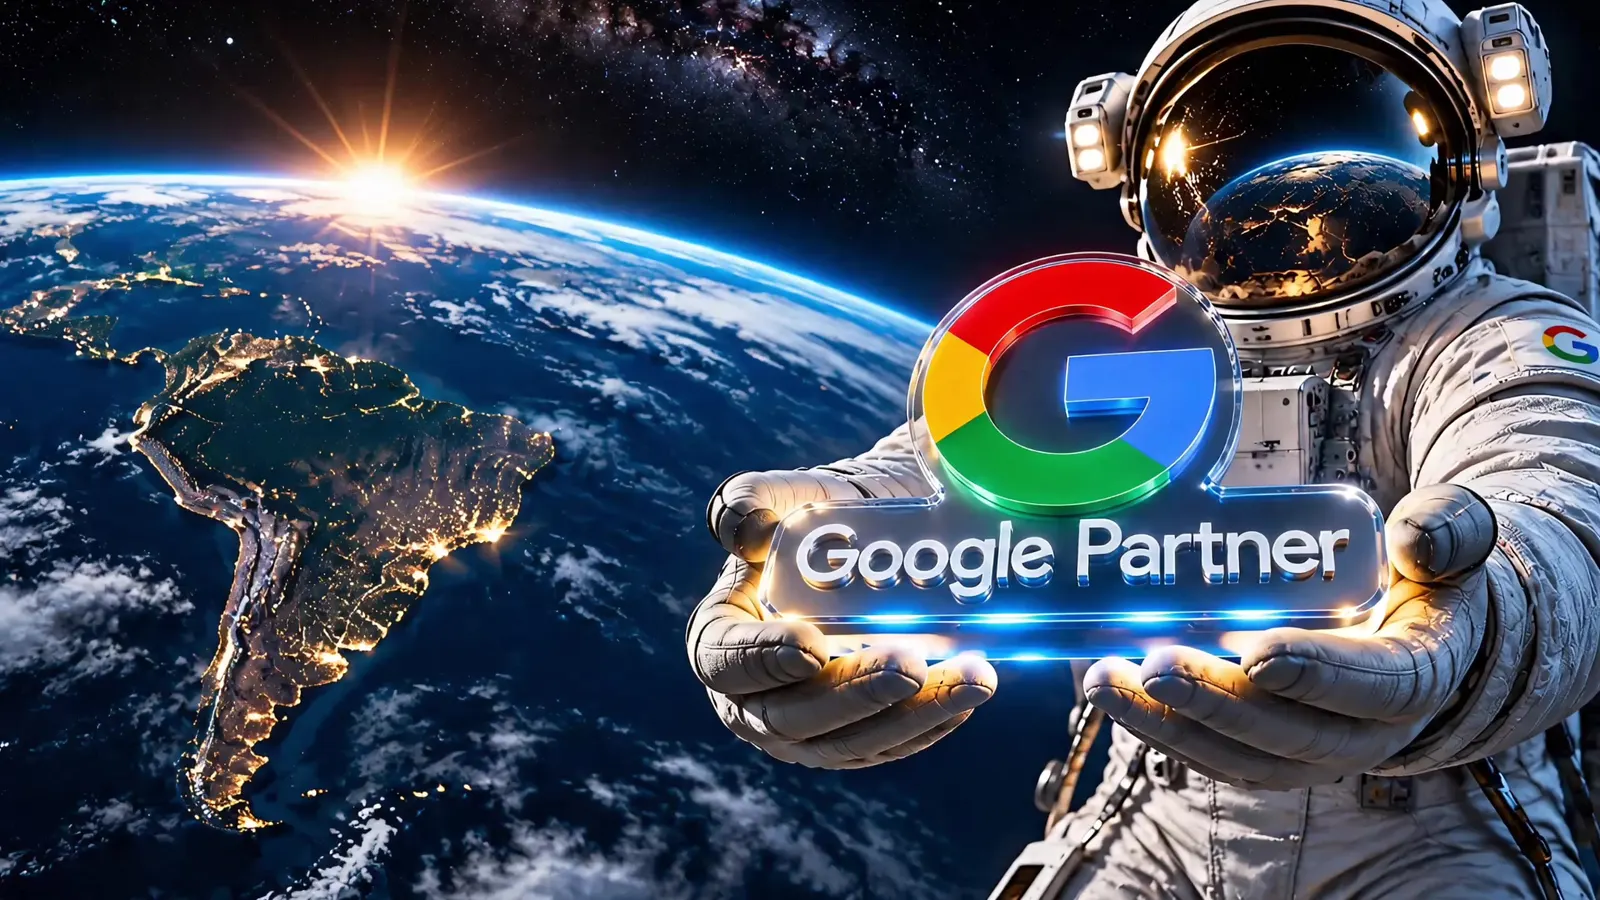
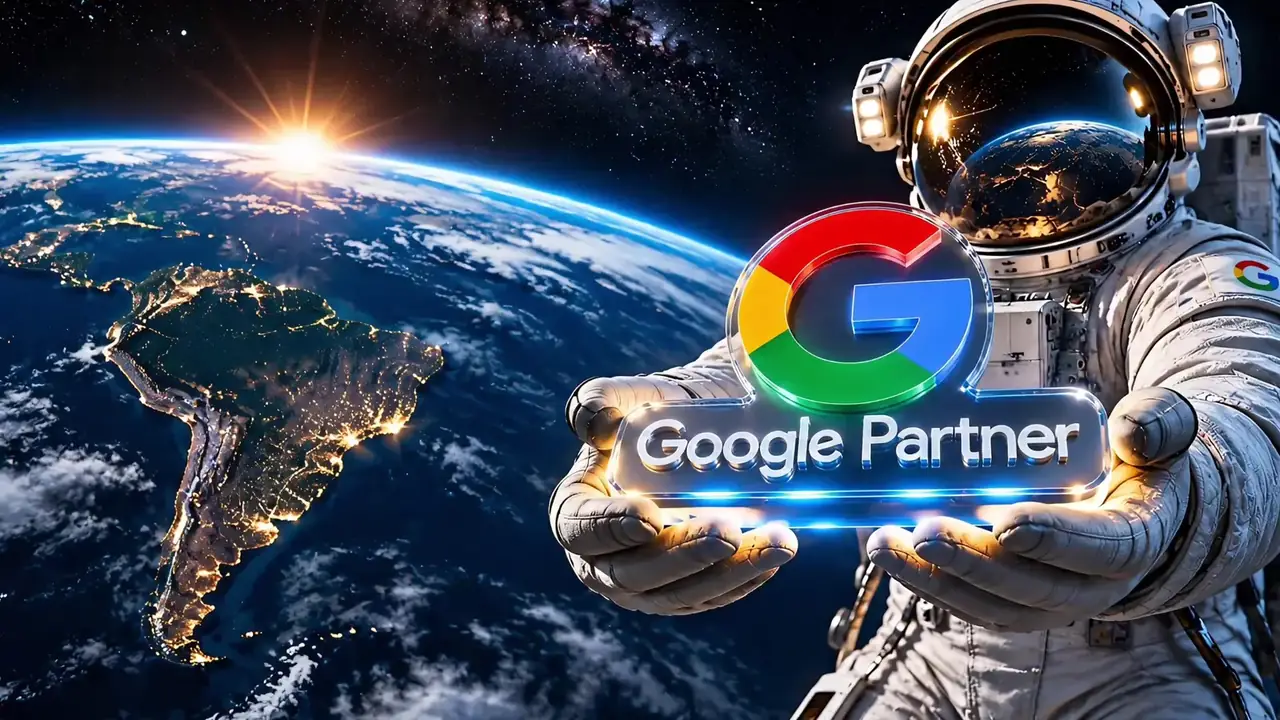
makingnet: reduz peso da home (imagens responsivas, capa do Google Partner sob demanda, contagem espera o video)
Claude-Session: https://claude.ai/code/session_018AAa1SHDuQghj9dGEkaoK2

Changed region(s): [[0.125, 0.8861, 0.1562, 0.9167], [0.0938, 0.4278, 0.125, 0.4583]]

diff --git a/makingnet/src/components/ui/earth-hero.tsx b/makingnet/src/components/ui/earth-hero.tsx
@@ -18,11 +18,13 @@ export interface EarthHeroProps {
   heading: string;
   items: CtaItem[];
   astronaut: string;
+  astronautSmall?: string;
   planet: string;
+  planetSizes?: { small: string; medium: string };
   space: string;
 }
 
-export default function EarthHero({ heading, items, astronaut, planet, space }: EarthHeroProps) {
+export default function EarthHero({ heading, items, astronaut, astronautSmall, planet, planetSizes, space }: EarthHeroProps) {
   const rootRef = React.useRef<HTMLDivElement>(null);
   const parallaxRef = React.useRef<HTMLDivElement>(null);
   const planetRef = React.useRef<HTMLDivElement>(null);
@@ -162,13 +164,23 @@ export default function EarthHero({ heading, items, astronaut, planet, space }: 
       <div className="eh-planet" ref={planetRef} aria-hidden="true">
         <span className="eh-sun" />
         <span className="eh-air" />
-        <img src={planet} alt="" width={2000} height={2001} fetchPriority="high" decoding="async" draggable={false} />
+        <img
+          src={planet}
+          srcSet={planetSizes ? `${planetSizes.small} 900w, ${planetSizes.medium} 1500w, ${planet} 2000w` : undefined}
+          sizes="(max-width: 860px) 112vw, min(125vh, 81vw)"
+          alt=""
+          width={2000}
+          height={2001}
+          fetchPriority="high"
+          decoding="async"
+          draggable={false}
+        />
       </div>
       <div className="eh-shade" aria-hidden="true" />
       <div className="eh-astro" ref={parallaxRef} aria-hidden="true">
         <div className="eh-orbit">
           <div className="eh-spin">
-            <img src={astronaut} alt="" width={900} height={1393} fetchPriority="high" decoding="async" draggable={false} />
+            <img src={astronaut} srcSet={astronautSmall ? `${astronautSmall} 560w, ${astronaut} 900w` : undefined} sizes="(max-width: 860px) 60vw, min(35vw, 52vh)" alt="" width={900} height={1393} fetchPriority="high" decoding="async" draggable={false} />
           </div>
         </div>
       </div>
